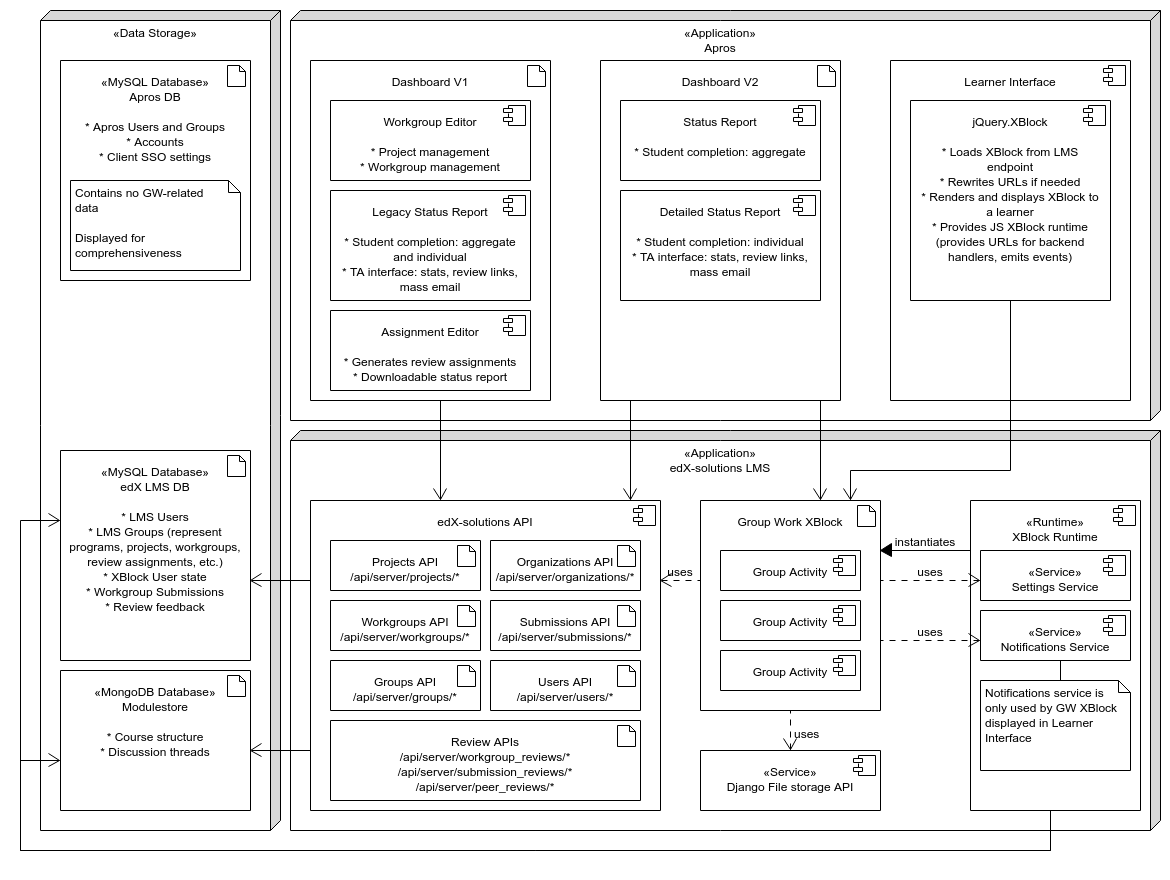
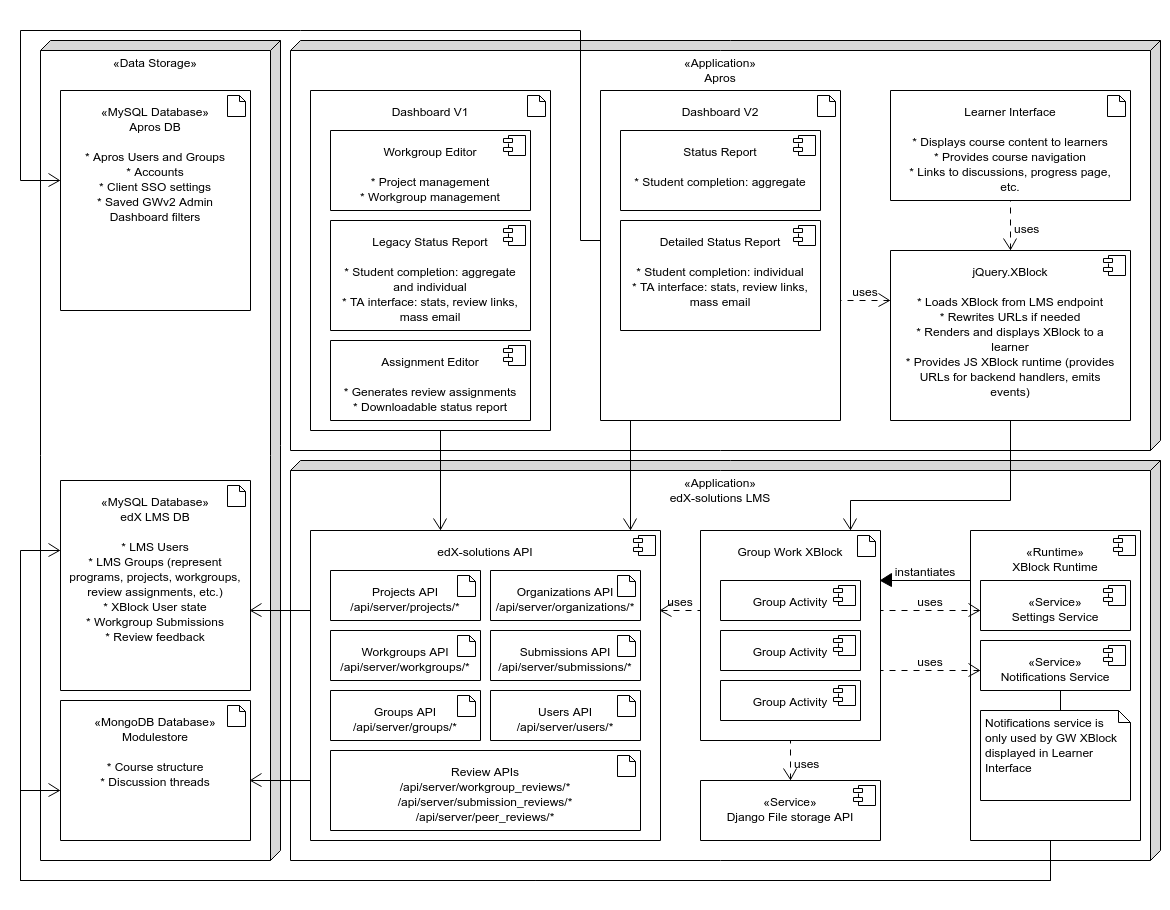
Admin dashboard docs

diff --git a/docs/admin_dashboard.md b/docs/admin_dashboard.md
@@ -1,0 +1,129 @@
+# Overall schema
+
+![Overall deployment diagram](images/uml/deployment-diagram.png)
+
+GWv2 admin dashboard V2 contains two components: overview and detailed view. Both are partially implemented in Apros 
+(filter and search) and the rest of it comes from GWv2 XBlock itself; jQuery.xblock is used to glue the 
+two parts together.
+
+# Glossary
+
+There’s some ambiguity in the terms used when one talks about group project exercises. 
+In order to avoid confusion, the following conventions are used throughout this document and are suggested 
+to be ubiquitously adopted:
+
+* *Group Work v2 XBlock* or *GWv2 XBlock* - the XBlock that provides group project functionality, or an instance of 
+  that XBlock.
+* *Group Project* or *GP* or *Project* - an entity representing single group project exercise. 
+  Associated with particular GWv2 XBlock instance in a particular course. Workgroups, and review assignments are 
+  associated with the Group Project directly.
+
+**Other relevant terms:**
+
+* *Program* - a collection of courses
+* *Course* - a collection of learning materials (lectures, texts, videos, problems, etc.) grouped into a logically 
+  bound unit.
+* *Workgroup* - a group of students that work together on a group project exercise. 
+  Also, a data structure to represent that group in a program. Workgroups are associated with particular Group Project. 
+  Students might belong to different Workgroups in different courses.
+* *TA* (stands for teaching assistant) - a role that grants ability (and responsibility) of assisting learners 
+  through the course. In context of GP, TAs fulfill two responsibilities: grading submissions (if submission is 
+  configured to be TA-graded) and providing review feedback to learners (if such feature is added to a GP). 
+  Also, a user having that role.
+* *Review Assignment* - an association between some learner and some workgroup; the learner can not be a member of 
+  that workgroup; the learner is responsible for reviewing that workgroup’s submissions. 
+  Also, an object that represents this association in the program.
+
+# GWv2 admin dashboard configuration
+
+One of the design goals for GWv2 was the ability to run it on vanilla edX platform. It was known that this goal 
+can not be pursued in scope of original GWv2 project, since GWv2 heavily depends on edX-solutions API, 
+which is not found in the vanilla platform. Nevertheless, that goal influenced some design decisions; one of those 
+decisions is to extract Apros-specific and access control settings into configuration variables.
+
+GWv2 XBlock uses [SettingsService][settings-service] (exists in vanilla platform) to obtain configuration variables 
+from the LMS django settings. Details on what settings GWv2 expect to find and their meaning can be found in 
+[GWv2 XBlock deployment documentation](deployment.md#setting-configuration-variables).
+
+[settings-service]: https://github.com/edx/edx-platform/blob/76b8e2e89761c30ac7aa2fa5e8aca4dc35d9002b/common/lib/xmodule/xmodule/services.py#L7
+
+# Overview
+
+![Admin dashboard overview](images/admin_dashboard_overview.png)
+
+Overview provides aggregate completion stats across all the workgroups and presents the report to TA/internal admins 
+in a concise fashion.
+
+* Filters (Program, Course, Project, Client) are implemented in Apros.
+* Saved filters are stored in Apros DB.
+* Program, Course and Project filters are sequential and are used to select a single GWv2 instance. 
+* Client filter is used to further restrict selection options and also to filter out workgroups from other companies. 
+  Client filter selection is passed to the LMS XBlock rendering endpoint via query string parameter, and then passed to 
+  GWv2 XBlock as part of its rendering context.
+* When Project filter is applied, jQuery.xblock is used to load GWv2 XBlock custom view (dashboard_view).
+* GWv2 XBlock has hierarchical internal structure: it consists of multiple Group Work Activities, each of which 
+  consists of multiple Group Work Stages; both Activities and Stages are represented as XBlocks. Dashboard_view 
+  recursively renders the corresponding view at each level.
+* **Note:** links to detail views are generated by GWv2 XBlock, but must point to an Apros URL. 
+  For this approach to work, GWv2 XBlock uses configurable setting for the “details view” URL; 
+  actual configuration contains Apros-specific template.
+Details view
+
+
+![Admin dashboard detail view](images/admin_dashboard_detail_view.png)
+
+Details view provides insight into each workgroup and individual student progress. From this view, 
+TAs can interact with learners by sending emails (to individual learners or to workgroups), 
+download group submissions for evaluation or help and jump in to provide reviews.
+
+* Filter and search are implemented in Apros.
+* Company filter value is passed to GWv2 XBlock the same way as in Overview: as a query string parameter to the 
+  LMS rendering endpoint and then as part of the rendering context to the GWv2 XBlock itself.
+* Search is completely client-side - no data is sent to server. However, the implementation is split between 
+  Apros page (that contains the search and filter) and GWv2 JS file: Apros emits events 
+  (`group_project_v2.details_view.search` and `group_project_v2.details_view.search_clear`) when search clause is ready,
+  GWv2 JS code does actual search and highlighting.
+* **Note:** TA review links are generated by GWv2 XBlock, but must point to an Apros URL. 
+  For this approach to work, GWv2 XBlock uses configurable setting for “TA review” URL; actual configuration contains 
+  Apros-specific template.
+
+# edX Solutions LMS API endpoints
+
+Dependencies from GWv2 itself are listed in [GWv2 deployment document](/docs/deployment.md#api-dependencies) - the list 
+contains all the endpoints used by GWv2 XBlock both in dashboard views and in learner interface. 
+The majority of endpoints are used in both though.
+
+Additional dependencies from apros:
+
+* /api/server/groups - list of LMS groups. Groups are used to represent multiple GP-related entities: 
+  Programs, Workgroups, Review Assignments, etc.
+* /api/server/groups/:id - group details (Program/Review Assignment, Workgroup, etc.)
+* /api/server/groups/:id/courses - lists Courses in a Program.
+* /api/server/courses - list of all Courses (filtered most of the time)
+* /api/server/courses/:id - course details - course start and end date, grading, course structure, etc.
+* /api/server/courses/:id/users - students enrolled in a Course.
+* /api/server/courses/:id/projects - Group Projects in a Course.
+* /api/server/courses/:id/completions - data about completed problems in the course.
+* /api/server/users/preferences - student preferences
+* /api/server/users/:id/organizations - lists Organizations for user (access control check)
+* /api/server/projects?course_id=...&content_id=... - lists Group Projects
+
+Note some endpoints are used both by GWv2 and Apros (i.e. /api/server/projects endpoint).
+
+# EdX-solutions and Apros dependencies
+
+The GWv2 XBlock uses some features and components not found in vanilla edX-platform:
+
+* edX Solutions API - see above for details.
+* Apros styles - in particular “reveal-modal” popup styles. Overall, the visual appearance of GWv2 is tailored to 
+  look as close to Apros as possible; some of these will not look nice on vanilla platform.
+* While vanilla edX-platform provides (unpublished) [API for rendering custom XBlock views][xblock-view-endpoint], this API is not used in 
+  other parts of LMS in any way. GWv2 XBlock uses custom views extensively, but most of those views are only used 
+  “internally” - called from some standard view and results are embedded into standard view response. 
+  However, both dashboard view (Overview and Detail View aka dashboard_view and dashborad_details_view) are 
+  expected to be called externally. The LMS will need to be updated in some way to allow using those views.
+* GWv2 XBlock does not provide any means to configure Group Project (Workgroups, Review Assignments, etc.); 
+  such configuration is performed from Apros
+
+
+[xblock-view-endpoint]: https://github.com/edx/edx-platform/blob/cc65094/lms/urls.py#L299-L309

diff --git a/README.md b/README.md
@@ -57,6 +57,11 @@ templates, or just share some relevant information about the assignment.
 
 The results of work produced by students are uploaded to the server to facilitate sharing them among team members
 and for future grading.
+
+**Admin Dashboard**
+
+Admin dashboard provides course staff with information about student progress through the problem - both at workgroup
+and individual level. Detailed information available in the [admin dashboard documentation](/docs/admin_dashboard.md). 
       
 **Omnipresent features**
 
@@ -166,9 +171,13 @@ Refer to [development documentation][dev-docs] for more details.
 # Additional in-depth documentation
 
 1. [Authoring][authoring]
-2. [Information on development][dev-docs]
+2. [Admin Dashboard][admin-dashboard]
 3. [Deployment information][deployment]
+4. [Information on development][dev-docs]
+5. [XBlocks in this package][xblocks-docs]
 
 [authoring]: /docs/authoring.md
-[dev-docs]: /docs/development.md
+[admin-dashboard]: /docs/admin-dashboard.md
 [deployment]: /docs/deployment.md
+[dev-docs]: /docs/development.md
+[xblocks-docs]: /docs/XBlocks.md
